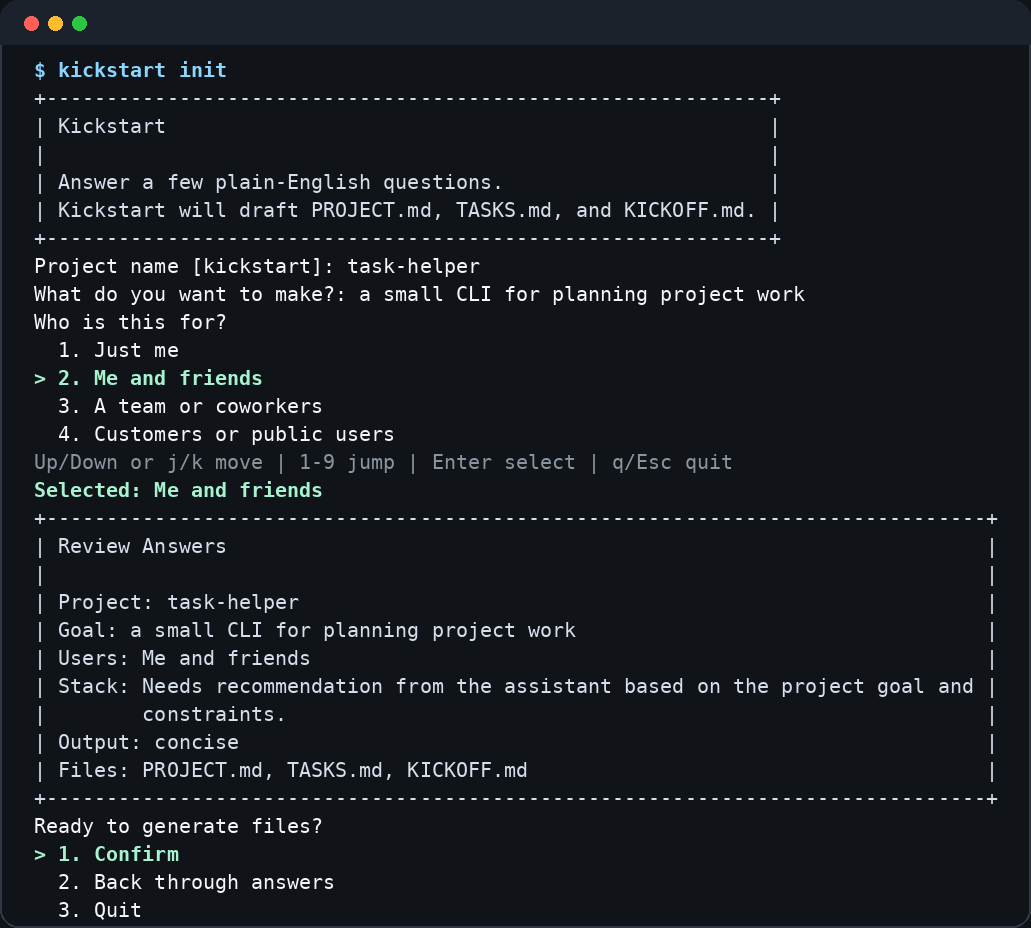
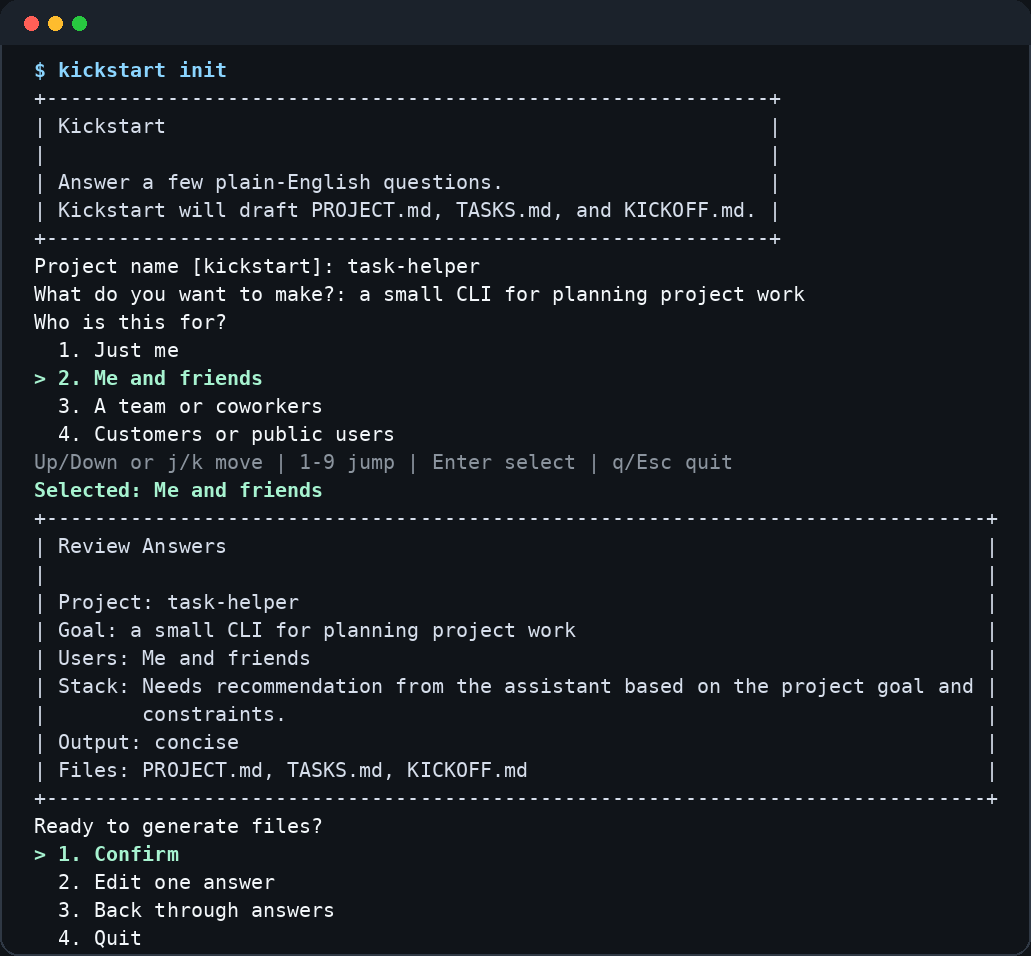
Add review edit flow

diff --git a/src/kickstart/cli.py b/src/kickstart/cli.py
@@ -6,6 +6,7 @@ import subprocess
 import sys
 import termios
 import tty
+from dataclasses import replace
 from pathlib import Path
 
 from .brief import (
@@ -21,6 +22,7 @@ from .ui import Tui
 
 UI = Tui()
 REVIEW_CONFIRM = "confirm"
+REVIEW_EDIT = "edit"
 REVIEW_BACK = "back"
 REVIEW_QUIT = "quit"
 WRITE_PREVIEW = "preview"
@@ -123,11 +125,16 @@ def collect_repo_snapshot(project_type: str, repo_path: Path | None) -> RepoSnap
 def collect_confirmed_answers(project_type: str, repo_snapshot: RepoSnapshot | None) -> ProjectAnswers | None:
     while True:
         answers = collect_answers(project_type, repo_snapshot)
-        review_action = confirm_answers(answers)
-        if review_action == REVIEW_CONFIRM:
-            return answers
-        if review_action == REVIEW_QUIT:
-            return None
+        while True:
+            review_action = confirm_answers(answers)
+            if review_action == REVIEW_CONFIRM:
+                return answers
+            if review_action == REVIEW_QUIT:
+                return None
+            if review_action == REVIEW_EDIT:
+                answers = edit_answers(answers)
+            if review_action == REVIEW_BACK:
+                break
 
 
 def handle_write(output_dir: Path, generated_files, force: bool) -> int:
@@ -179,10 +186,53 @@ def confirm_answers(answers: ProjectAnswers) -> str:
         "Ready to generate files?",
         [
             (REVIEW_CONFIRM, "Confirm"),
+            (REVIEW_EDIT, "Edit one answer"),
             (REVIEW_BACK, "Back through answers"),
             (REVIEW_QUIT, "Quit"),
         ],
     )
+
+
+def edit_answers(answers: ProjectAnswers) -> ProjectAnswers:
+    field = ask_choice(
+        "Which answer should change?",
+        [
+            ("name", "Project name"),
+            ("goal", "Project goal"),
+            ("users", "Target users"),
+            ("stack", "Tech stack"),
+            ("constraints", "Constraints"),
+            ("done", "Definition of done"),
+            ("risks", "Risks"),
+            ("quality_bar", "Quality bar"),
+            ("output_style", "Output style"),
+        ],
+    )
+    if field == "name":
+        return replace(answers, name=ask_text("Project name", default=answers.name))
+    if field == "goal":
+        return replace(answers, goal=ask_text("What do you want to make?", default=answers.goal))
+    if field == "users":
+        return replace(answers, users=collect_users())
+    if field == "stack":
+        return replace(answers, stack=collect_stack())
+    if field == "constraints":
+        return replace(answers, constraints=ask_text("Any must-haves or limits?", default=answers.constraints))
+    if field == "done":
+        return replace(answers, done=ask_text("What would make this feel finished?", default=answers.done))
+    if field == "risks":
+        return replace(answers, risks=ask_text("Anything uncertain or worrying?", default=answers.risks))
+    if field == "quality_bar":
+        return replace(answers, quality_bar=collect_quality_bar())
+    if field == "output_style":
+        return replace(
+            answers,
+            output_style=ask_choice(
+                "How detailed should the generated kickoff guidance be?",
+                [("concise", "Concise"), ("detailed", "Detailed")],
+            ),
+        )
+    raise SystemExit(f"Unknown review edit field: {field}")
 
 
 def review_lines(answers: ProjectAnswers) -> list[str]:

diff --git a/tests/test_cli.py b/tests/test_cli.py
@@ -11,6 +11,7 @@ from kickstart.cli import (
     ask_choice,
     ask_text,
     collect_answers,
+    edit_answers,
     existing_generated_paths,
     resolve_write_conflicts,
     review_lines,
@@ -240,6 +241,40 @@ class CliFlowTests(unittest.TestCase):
         self.assertEqual(0, exit_code)
         self.assertEqual(2, collect.call_count)
         generate_files.assert_called_once_with(revised)
+
+    def test_run_init_edit_from_review_updates_one_answer(self):
+        generated_answers = []
+
+        def fake_generate_files(answers):
+            generated_answers.append(answers)
+            return []
+
+        with (
+            patch("kickstart.cli.collect_answers", return_value=sample_answers("first")) as collect,
+            patch("kickstart.cli.confirm_answers", side_effect=["edit", "confirm"]),
+            patch("kickstart.cli.edit_answers", return_value=sample_answers("revised")) as edit,
+            patch("kickstart.cli.generate_files", side_effect=fake_generate_files),
+            patch("kickstart.cli.print_preview"),
+            redirect_stdout(StringIO()),
+        ):
+            exit_code = run_init(init_args())
+
+        self.assertEqual(0, exit_code)
+        self.assertEqual(1, collect.call_count)
+        edit.assert_called_once()
+        self.assertEqual("revised", generated_answers[0].name)
+
+    def test_edit_answers_can_update_project_goal(self):
+        answers = sample_answers()
+
+        with (
+            patch("kickstart.cli.ask_choice", return_value="goal"),
+            patch("kickstart.cli.ask_text", return_value="make a better app"),
+        ):
+            updated = edit_answers(answers)
+
+        self.assertEqual("make a better app", updated.goal)
+        self.assertEqual(answers.name, updated.name)
 
     def test_run_init_previews_instead_when_write_conflicts(self):
         with TemporaryDirectory() as tmp:
